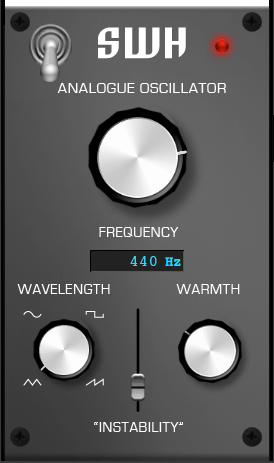
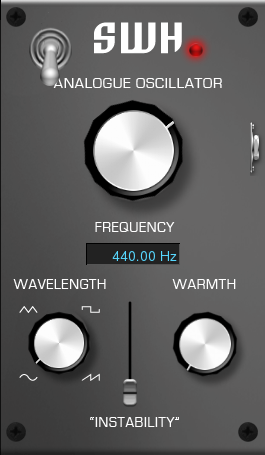
Fix oscilattor modgui

diff --git a/plugins/analogue_osc-swh.lv2/modgui/swh_oscillator.css b/plugins/analogue_osc-swh.lv2/modgui/swh_oscillator.css
@@ -1,4 +1,4 @@
-<style>
+
     .swh-oscillator * {
         color: white !important;
     }
@@ -120,25 +120,48 @@ margin: -5px auto;
       position:relative;
       overflow:hidden;
     }
-    .swh-oscillator .mod-slider {
-        color: black;
-        font-size: 11px;
-        height: 140px;
-        margin-bottom: 2px;
-        margin-left: 18px;
-        overflow: hidden;
-        position: relative;
-        text-align: center;
-        width: 33px;
-    }
-    .swh-oscillator .mod-slider .mod-slider-image {
-        background-image: url(/resources/_strip.png{{{ns}}});
-        background-repeat: no-repeat;
-        background-size: auto 110px;
-        height: 110px;
-        margin: 0 auto;
-        width: 44px;
-    }
+/* SLIDER
+================================================ */
+.swh-oscillator .mod-slider:first-child {
+    margin-left:8px;
+}
+.swh-oscillator .mod-slider .mod-slider-title {
+    display:block;
+    font-size:11px;
+    font-weight:bold;
+    height:7px;
+    line-height:1;
+    margin-bottom:3px;
+    overflow:hidden;
+    padding:7px 0 5px;
+    position:relative;
+}
+.swh-oscillator .mod-slider .mod-slider-image:hover {
+    cursor:pointer;
+}
+.swh-oscillator .mod-slider {
+    color:black;
+    float:left;
+    font-size:11px;
+    height:140px;
+    margin-bottom:2px;
+    margin-right:2px;
+    overflow:hidden;
+    position:relative;
+    text-align:center;
+    width:33px;
+    left: 15px;
+}
+.swh-oscillator .mod-slider .mod-slider-image {
+    background-image: url(/resources/_strip.png{{{ns}}});
+    background-repeat:no-repeat;
+    background-size:auto 110px;
+    height:110px;
+    margin:0 auto;
+    width:44px;
+}
+/* other stuff
+================================================ */
     .swh-oscillator .mod-footswitch {
         background-image:url(/resources/switch-key.png{{{ns}}});
         background-position: top center;
@@ -180,4 +203,3 @@ margin: -5px auto;
     .swh-oscillator .mod-pedal-output>*  {
         margin-bottom: 75px !important;
     }
-</style>
